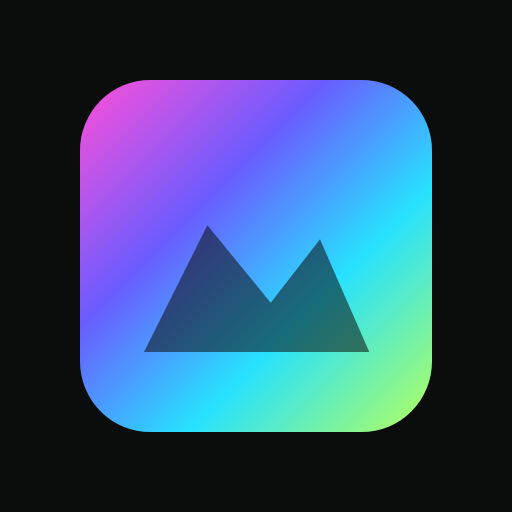
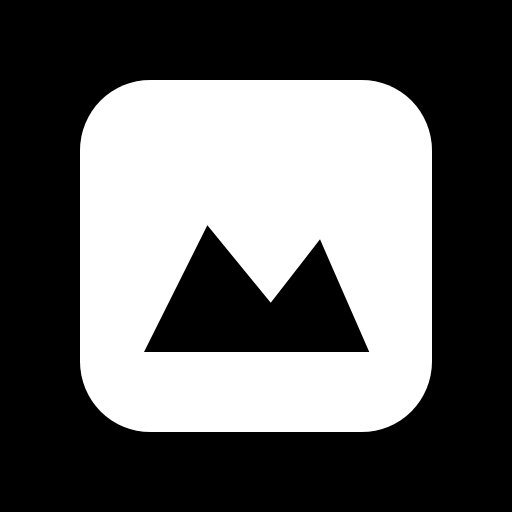
Switch to a high-contrast black and white palette
All colors now come from the tokens at the top of src/index.css so a
future design system can replace them in one place. Pending states are
outlined and completed states are solid white; icons are black and
white too.

Claude-Session: https://claude.ai/code/session_0164VFMoBEQPrYbevUhXGmpc

diff --git a/src/index.css b/src/index.css
@@ -3,28 +3,32 @@
 /* App só para celular: uma coluna estreita. Em telas maiores fica centralizada como um celular. */
 
 :root {
-  --bg: #0b0d0c;
-  --bg-2: #121513;
-  --panel: #161a17;
-  --panel-2: #1f2520;
-  --line: #2a312b;
-  --text: #e6ebe4;
-  --muted: #8a958b;
-  --accent: #b6f25c;
-  --accent-ink: #10150a;
-  --danger: #ff6b5b;
-  --warn: #e7b35d;
-  --mp: #ff9d2e;
-  --dmz: #52d6a6;
-  --wz: #6aa8ff;
+  /* Paleta provisória em preto e branco, com contraste alto.
+     Todas as cores do app vêm destes tokens: troque aqui pelo design system. */
+  --bg: #000;
+  --bg-2: #000;
+  --panel: #000;
+  --panel-2: #1c1c1c;
+  --line: #767676;
+  --text: #fff;
+  --muted: #d0d0d0;
+  --accent: #fff;
+  --accent-ink: #000;
+  --danger: #fff;
+  --warn: #fff;
+  --overlay: rgba(0, 0, 0, 0.85);
+  --mp: #fff;
+  --dmz: #fff;
+  --wz: #fff;
 
-  --military: linear-gradient(135deg, #4b5a36 0 25%, #2f3a22 25% 50%, #6b6a45 50% 75%, #3b4630 75%);
-  --special: linear-gradient(135deg, #1d4f6b, #2c8aa8 45%, #163a50);
-  --gold: linear-gradient(135deg, #8a6418, #f5d27a 40%, #b98a2c 60%, #fff0b8 80%, #9a6f1c);
-  --platinum: linear-gradient(135deg, #8e959c, #f2f5f7 40%, #aab3ba 60%, #ffffff 80%, #7f878e);
-  --harmonic: linear-gradient(120deg, #ff4fd8, #6a5cff 30%, #27e1ff 55%, #b6ff5c 80%, #ff4fd8);
-  --divergence: radial-gradient(circle at 30% 30%, #ff3b7f, #5a1de0 45%, #090616 85%);
-  --flashpoint: conic-gradient(from 0deg, #ff7a18, #ffd200, #ff3d00, #ff7a18);
+  /* Camuflagens: por enquanto todas brancas quando concluídas. */
+  --military: #fff;
+  --special: #fff;
+  --gold: #fff;
+  --platinum: #fff;
+  --harmonic: #fff;
+  --divergence: #fff;
+  --flashpoint: #fff;
 
   --radius: 14px;
   --nav-h: 64px;
@@ -64,13 +68,11 @@ h1, h2, h3 { font-family: 'Rajdhani', sans-serif; letter-spacing: 0.02em; margin
   max-width: 480px;
   margin: 0 auto;
   min-height: 100dvh;
-  background:
-    radial-gradient(600px 300px at 90% -10%, rgba(182, 242, 92, 0.07), transparent 60%),
-    var(--bg);
+  background: var(--bg);
   position: relative;
 }
 @media (min-width: 520px) {
-  body { background: #050605; }
+  body { background: var(--bg); }
   .app { border-left: 1px solid var(--line); border-right: 1px solid var(--line); }
 }
 
@@ -79,7 +81,7 @@ h1, h2, h3 { font-family: 'Rajdhani', sans-serif; letter-spacing: 0.02em; margin
   position: sticky; top: 0; z-index: 10;
   display: flex; align-items: center; gap: 8px;
   padding: calc(10px + var(--safe-t)) 16px 10px;
-  background: rgba(11, 13, 12, 0.92);
+  background: var(--bg);
   backdrop-filter: blur(10px);
   border-bottom: 1px solid var(--line);
 }
@@ -95,7 +97,7 @@ h1, h2, h3 { font-family: 'Rajdhani', sans-serif; letter-spacing: 0.02em; margin
 
 .mode-switch { display: flex; background: var(--panel); border: 1px solid var(--line); border-radius: 999px; padding: 3px; flex: none; }
 .mode-btn { border: 0; background: transparent; min-width: 48px; height: 34px; padding: 0 10px; border-radius: 999px; font-family: 'Rajdhani', sans-serif; font-weight: 700; font-size: 0.95rem; letter-spacing: 0.05em; color: var(--muted); }
-.mode-btn.active { color: #0b0d0c; }
+.mode-btn.active { color: var(--accent-ink); }
 .mode-btn.mode-mp.active { background: var(--mp); }
 .mode-btn.mode-dmz.active { background: var(--dmz); }
 .mode-btn.mode-wz.active { background: var(--wz); }
@@ -109,7 +111,7 @@ h1, h2, h3 { font-family: 'Rajdhani', sans-serif; letter-spacing: 0.02em; margin
   display: grid; grid-template-columns: repeat(4, 1fr);
   height: calc(var(--nav-h) + var(--safe-b));
   padding-bottom: var(--safe-b);
-  background: rgba(14, 17, 15, 0.96);
+  background: var(--bg);
   backdrop-filter: blur(10px);
   border-top: 1px solid var(--line);
 }
@@ -121,7 +123,7 @@ h1, h2, h3 { font-family: 'Rajdhani', sans-serif; letter-spacing: 0.02em; margin
 .btn { background: var(--panel-2); border: 1px solid var(--line); border-radius: 12px; min-height: 44px; padding: 10px 16px; font-weight: 600; }
 .btn.primary { background: var(--accent); color: var(--accent-ink); border-color: var(--accent); }
 .btn.primary:disabled { opacity: 0.4; }
-.btn.danger { color: var(--danger); border-color: rgba(255, 107, 91, 0.4); }
+.btn.danger { color: var(--danger); border-color: var(--text); }
 .btn.ghost { background: transparent; }
 .btn.big { width: 100%; min-height: 54px; font-size: 1.05rem; font-family: 'Rajdhani', sans-serif; font-weight: 700; letter-spacing: 0.04em; text-transform: uppercase; }
 .icon-btn { flex: none; background: var(--panel-2); border: 1px solid var(--line); border-radius: 50%; width: 40px; height: 40px; font-size: 1.4rem; line-height: 1; display: grid; place-items: center; }
@@ -134,8 +136,8 @@ h1, h2, h3 { font-family: 'Rajdhani', sans-serif; letter-spacing: 0.02em; margin
 .empty-title { font-family: 'Rajdhani', sans-serif; font-weight: 700; font-size: 1.3rem; }
 
 .grind-card { background: var(--panel); border: 1px solid var(--line); border-radius: var(--radius); padding: 14px; display: flex; flex-direction: column; gap: 10px; transition: border-color 0.2s, box-shadow 0.2s; }
-.grind-card.ready { border-color: var(--accent); box-shadow: 0 0 0 1px var(--accent), 0 0 24px rgba(182, 242, 92, 0.15); }
-.grind-card.finished { border-color: #7d6dff; }
+.grind-card.ready { border-color: var(--accent); box-shadow: 0 0 0 2px var(--accent); }
+.grind-card.finished { border-color: var(--text); }
 .gc-head { display: flex; align-items: flex-start; gap: 10px; }
 .gc-title { flex: 1; min-width: 0; background: none; border: 0; padding: 0; text-align: left; display: flex; flex-direction: column; }
 .gc-name { font-family: 'Rajdhani', sans-serif; font-weight: 700; font-size: 1.5rem; line-height: 1.1; }
@@ -146,7 +148,7 @@ h1, h2, h3 { font-family: 'Rajdhani', sans-serif; letter-spacing: 0.02em; margin
 .gc-challenge { margin: 0; font-size: 1.15rem; font-weight: 600; line-height: 1.35; }
 .gc-challenge.small { font-size: 0.95rem; }
 .gc-unlock { margin: -4px 0 0; font-size: 0.82rem; color: var(--muted); }
-.gc-finished { margin: 0; font-weight: 600; color: #cfc8ff; }
+.gc-finished { margin: 0; font-weight: 600; color: var(--text); }
 
 .counter-big { display: grid; grid-template-columns: 72px 1fr 112px; align-items: center; gap: 10px; }
 .counter-big button { height: 72px; border-radius: 16px; border: 1px solid var(--line); background: var(--panel-2); font-family: 'Rajdhani', sans-serif; font-weight: 700; font-size: 1.5rem; }
@@ -177,8 +179,8 @@ h1, h2, h3 { font-family: 'Rajdhani', sans-serif; letter-spacing: 0.02em; margin
 .seg { flex: 1; height: 8px; border-radius: 2px; background: var(--panel-2); }
 .seg.tier-gold, .seg.tier-platinum, .seg.tier-harmonic { flex: 1.6; }
 .seg.tier-military + .seg.tier-special, .seg.tier-special + .seg.tier-gold { margin-left: 3px; }
-.seg.done.tier-military { background: #6b7a4a; }
-.seg.done.tier-special { background: #2c8aa8; }
+.seg.done.tier-military { background: var(--military); }
+.seg.done.tier-special { background: var(--special); }
 .seg.done.tier-gold { background: var(--gold); }
 .seg.done.tier-platinum { background: var(--platinum); }
 .seg.done.tier-harmonic { background: var(--harmonic); }
@@ -203,28 +205,24 @@ h1, h2, h3 { font-family: 'Rajdhani', sans-serif; letter-spacing: 0.02em; margin
 .class-head { display: flex; align-items: center; justify-content: space-between; gap: 8px; margin-bottom: 8px; }
 .class-head h2 { font-size: 1.05rem; text-transform: uppercase; color: var(--muted); }
 .badge { font-size: 0.72rem; font-weight: 600; padding: 3px 9px; border-radius: 999px; border: 1px solid var(--line); color: var(--muted); }
-.badge-plat { background: rgba(242, 245, 247, 0.12); border-color: #c9d0d6; color: #eef2f5; }
+.badge-plat { background: var(--text); border-color: var(--text); color: var(--accent-ink); }
 
 .weapon-list { list-style: none; margin: 0; padding: 0; display: grid; gap: 8px; }
 .weapon-row { display: flex; align-items: stretch; background: var(--panel); border: 1px solid var(--line); border-radius: var(--radius); overflow: hidden; }
-.weapon-row.complete { border-color: #5b4fd6; }
+.weapon-row.complete { border-color: var(--text); }
 .weapon-row.unreleased { opacity: 0.55; }
 .wr-main { flex: 1; min-width: 0; background: none; border: 0; text-align: left; padding: 12px 4px 12px 14px; display: flex; flex-direction: column; gap: 6px; }
 .wr-main:active { background: var(--panel-2); }
 .wr-top { display: flex; align-items: center; gap: 6px; min-width: 0; }
 .weapon-row .name { font-weight: 600; white-space: nowrap; overflow: hidden; text-overflow: ellipsis; }
 .current { font-size: 0.8rem; color: var(--muted); }
-.tier-text-gold { color: #f5d27a; }
-.tier-text-platinum { color: #e7ecef; }
-.tier-text-harmonic { color: #b9adff; }
-.tier-text-special { color: #6cc3e0; }
-.pin { flex: none; width: 56px; background: none; border: 0; border-left: 1px solid var(--line); font-size: 1.4rem; color: #3a433b; }
-.pin.on { color: var(--accent); background: rgba(182, 242, 92, 0.06); }
-.season-tag { flex: none; font-size: 0.66rem; font-weight: 600; color: var(--wz); border: 1px solid rgba(106, 168, 255, 0.4); border-radius: 999px; padding: 1px 7px; white-space: nowrap; }
+.pin { flex: none; width: 56px; background: none; border: 0; border-left: 1px solid var(--line); font-size: 1.4rem; color: var(--line); }
+.pin.on { color: var(--accent); background: var(--panel-2); }
+.season-tag { flex: none; font-size: 0.66rem; font-weight: 600; color: var(--wz); border: 1px solid var(--line); border-radius: 999px; padding: 1px 7px; white-space: nowrap; }
 .empty { color: var(--muted); text-align: center; padding: 40px 0; }
 
 /* Painel da arma (bottom sheet) ------------------------------------------- */
-.sheet-backdrop { position: fixed; inset: 0; z-index: 30; background: rgba(0, 0, 0, 0.65); display: flex; align-items: flex-end; justify-content: center; animation: fade 0.15s; }
+.sheet-backdrop { position: fixed; inset: 0; z-index: 30; background: var(--overlay); display: flex; align-items: flex-end; justify-content: center; animation: fade 0.15s; }
 .sheet { width: 100%; max-width: 480px; max-height: 92dvh; overflow-y: auto; overscroll-behavior: contain; background: var(--bg-2); border: 1px solid var(--line); border-bottom: 0; border-radius: 20px 20px 0 0; padding: 8px 16px calc(20px + var(--safe-b)); animation: rise 0.22s ease-out; }
 .sheet-grip { width: 44px; height: 5px; border-radius: 3px; background: var(--line); margin: 4px auto 10px; }
 .sheet-head { display: flex; justify-content: space-between; align-items: flex-start; gap: 12px; position: sticky; top: -8px; z-index: 2; background: var(--bg-2); padding: 8px 0 6px; margin-top: -8px; }
@@ -237,9 +235,9 @@ h1, h2, h3 { font-family: 'Rajdhani', sans-serif; letter-spacing: 0.02em; margin
 .ladder { list-style: none; padding: 0; margin: 0; display: grid; gap: 4px; }
 .ladder-step { width: 100%; display: flex; gap: 12px; align-items: flex-start; padding: 10px; border-radius: 12px; border: 1px solid transparent; background: none; text-align: left; }
 .ladder-step:active { background: var(--panel); }
-.ladder-step.next { border-color: var(--accent); background: rgba(182, 242, 92, 0.05); }
+.ladder-step.next { border-color: var(--accent); background: var(--panel-2); }
 .ladder-step.done .ladder-text strong { color: var(--muted); }
-.swatch { flex: none; width: 40px; height: 40px; border-radius: 10px; border: 1px solid var(--line); display: grid; place-items: center; font-weight: 800; color: #0b0d0c; opacity: 0.35; }
+.swatch { flex: none; width: 40px; height: 40px; border-radius: 10px; border: 1px solid var(--line); display: grid; place-items: center; font-weight: 800; color: var(--accent-ink); opacity: 0.3; }
 .swatch.tier-military { background: var(--military); }
 .swatch.tier-special { background: var(--special); }
 .swatch.tier-gold { background: var(--gold); }
@@ -270,11 +268,11 @@ h1, h2, h3 { font-family: 'Rajdhani', sans-serif; letter-spacing: 0.02em; margin
 
 .milestone { display: flex; gap: 14px; align-items: center; background: var(--panel); border: 1px solid var(--line); border-radius: var(--radius); padding: 12px; }
 .milestone p { margin: 2px 0; font-size: 0.86rem; }
-.milestone-swatch { flex: none; width: 52px; height: 52px; border-radius: 12px; opacity: 0.4; filter: grayscale(0.6); }
-.milestone.unlocked { border-color: #7d6dff; }
-.milestone.unlocked .milestone-swatch { opacity: 1; filter: none; }
-.camo-divergence .milestone-swatch { background: var(--divergence); }
-.camo-flashpoint .milestone-swatch { background: var(--flashpoint); }
+.milestone-swatch { flex: none; width: 52px; height: 52px; border-radius: 12px; border: 2px solid var(--line); }
+.milestone.unlocked { border-color: var(--text); }
+.milestone.unlocked .milestone-swatch { border-color: var(--text); }
+.camo-divergence.unlocked .milestone-swatch { background: var(--divergence); }
+.camo-flashpoint.unlocked .milestone-swatch { background: var(--flashpoint); }
 
 .mode-chain { display: flex; flex-direction: column; gap: 8px; margin-top: 8px; }
 .mode-chain.mode-mp { --mode-color: var(--mp); }
@@ -289,17 +287,8 @@ h1, h2, h3 { font-family: 'Rajdhani', sans-serif; letter-spacing: 0.02em; margin
 .mastery-body { flex: 1; min-width: 0; display: flex; flex-direction: column; gap: 6px; }
 .mastery-body h3 { font-size: 1.15rem; }
 .req { margin: 0; font-size: 0.86rem; color: var(--muted); }
-.mastery-swatch { flex: none; width: 44px; height: 44px; border-radius: 10px; }
-.mastery-card:not(.done) .mastery-swatch { filter: grayscale(0.8) brightness(0.6); }
-.m-mp-0 { background: linear-gradient(135deg, #c9ced6, #5d6670 40%, #e8edf2 60%, #3b4148); }
-.m-mp-1 { background: radial-gradient(circle at 30% 30%, #ffe08a, #ff7b1c 40%, #6b1d00 90%); }
-.m-mp-2 { background: radial-gradient(circle at 60% 40%, #fff 0 2%, transparent 3%), radial-gradient(circle at 25% 70%, #fff 0 2%, transparent 3%), linear-gradient(135deg, #1b0f3d, #5634c9 50%, #0b0820); }
-.m-dmz-0 { background: linear-gradient(45deg, #0c3b33 0 33%, #22a07f 33% 66%, #0c3b33 66%); }
-.m-dmz-1 { background: repeating-radial-gradient(circle at 50% 50%, #59e3b9 0 3px, #0e4a40 3px 7px); }
-.m-dmz-2 { background: radial-gradient(circle at 50% 50%, #fffbd1, #ffcf3d 30%, #ff7b00 60%, #3b1600); }
-.m-wz-0 { background: linear-gradient(115deg, #0a1b3d 0 30%, #2f6bff 30% 45%, #0a1b3d 45% 60%, #8fc1ff 60% 70%, #0a1b3d 70%); }
-.m-wz-1 { background: repeating-linear-gradient(160deg, #26324a 0 4px, #8a9bb8 4px 6px, #1a2235 6px 10px); }
-.m-wz-2 { background: conic-gradient(from 90deg, #ff2d55, #6aa8ff, #b6ff5c, #ff2d55); }
+.mastery-swatch { flex: none; width: 44px; height: 44px; border-radius: 10px; background: var(--text); }
+.mastery-card:not(.done) .mastery-swatch { background: transparent; border: 2px solid var(--line); }
 .check { display: flex; align-items: center; gap: 10px; font-size: 0.9rem; min-height: 40px; }
 .check input { accent-color: var(--accent); width: 20px; height: 20px; flex: none; }
 
@@ -325,3 +314,9 @@ h1, h2, h3 { font-family: 'Rajdhani', sans-serif; letter-spacing: 0.02em; margin
 @media (prefers-reduced-motion: reduce) {
   *, *::before, *::after { animation: none !important; transition: none !important; }
 }
+
+/* Preto e branco: pendente = contorno, concluído = branco cheio. */
+.seg { background: transparent; box-shadow: inset 0 0 0 1px var(--line); }
+.seg.done { box-shadow: none; }
+.swatch:not(.done) { background: transparent; opacity: 1; border: 2px solid var(--line); }
+.swatch-sm { background: transparent !important; border: 2px solid var(--text); }

diff --git a/index.html b/index.html
@@ -3,7 +3,7 @@
   <head>
     <meta charset="UTF-8" />
     <meta name="viewport" content="width=device-width, initial-scale=1.0, viewport-fit=cover" />
-    <meta name="theme-color" content="#0b0d0c" />
+    <meta name="theme-color" content="#000000" />
     <meta name="description" content="Camo tracker para usar no celular enquanto joga Modern Warfare 4, DMZ e Warzone." />
     <link rel="icon" type="image/svg+xml" href="./favicon.svg" />
     <link rel="manifest" href="./manifest.webmanifest" />
